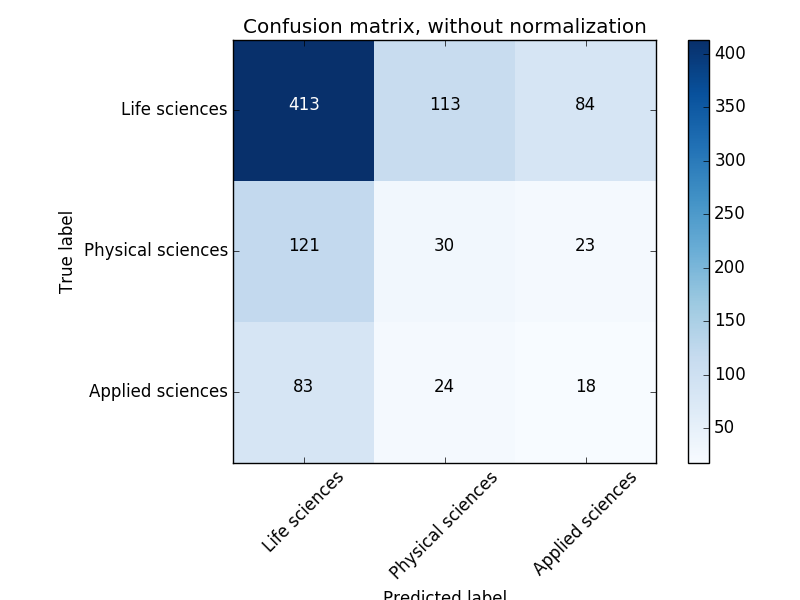
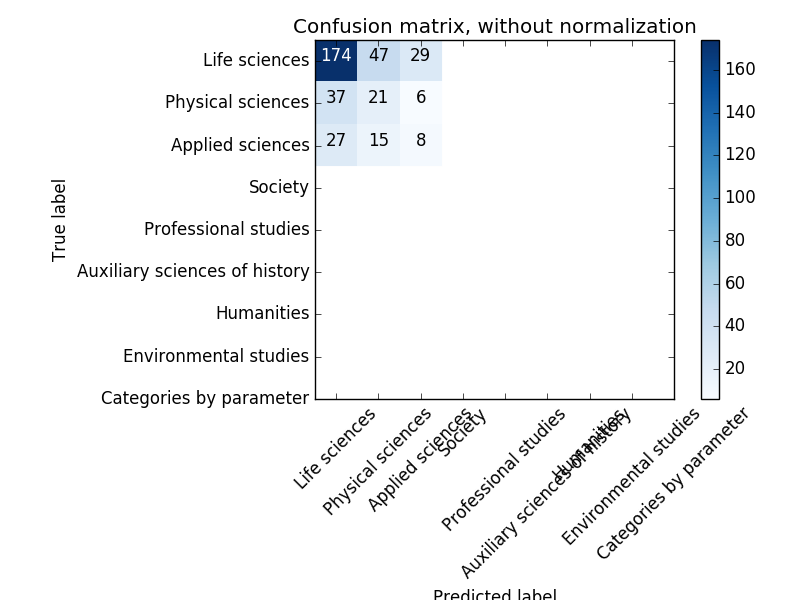
done

diff --git a/m3/training.py b/m3/training.py
@@ -22,8 +22,12 @@ import numpy as np
 
 import gensim
 from gensim.models.doc2vec import TaggedDocument, LabeledSentence, Doc2Vec
-
+from sklearn.metrics import confusion_matrix,roc_curve
 import matplotlib.pyplot as plt
+
+from sklearn.model_selection import cross_val_score
+
+
 
 def plot_confusion_matrix(cm, classes,
                           normalize=False,
@@ -131,30 +135,69 @@ tagged_document = df['tagged'].tolist()
 
 
 
+from numpy import array
+from numpy import argmax
+from sklearn.preprocessing import LabelEncoder
+from sklearn.preprocessing import OneHotEncoder
+# define example
+data = list(set(symbol_set_all))
+values = array(data)
 
+# integer encode
+
+label_encoder = LabelEncoder()
+label_encoder_model = label_encoder.fit(values)
+integer_encoded = label_encoder_model.transform(values)
+integer_encoded = integer_encoded.reshape(len(integer_encoded), 1)
+
+onehot_encoder = OneHotEncoder(sparse=True)
+onehot_encoder_model =onehot_encoder.fit(integer_encoded)
+
+
+
+def encode_transform(data):
+    values = array(data)
+    integer_encoded = label_encoder_model.transform(values)
+    integer_encoded = integer_encoded.reshape(len(integer_encoded), 1)
+    onehot_encoded = onehot_encoder_model.transform(integer_encoded)
+    return onehot_encoded
+
+# print encode_transform(['a'])[0]
+#
+# exit()
 # word 2 vec experiment
 
 from gensim.models import Word2Vec
 # build vocabulary and train model
 Word2Vec_model = gensim.models.Word2Vec(
     symbol_list,
-    size=300,
+    size=100,
     window=4,
-    min_count=0,
+    min_count=1,
     workers=4)
 Word2Vec_model.train(symbol_list, total_examples=len(symbol_list))
 
 
+def vectorize(s):
+    v = Word2Vec_model[s]
+    # v = encode_transform([s])[0]
+    return v
+
+
+# print vectorize('a')
+
+
 d = []
 
-class_names = ['Life sciences', 'Physical sciences', 'Applied sciences']
+# class_names = ['Life sciences', 'Physical sciences', 'Applied sciences']
+class_names = ['Life sciences', 'Physical sciences', 'Applied sciences', 'Society', 'Professional studies', 'Auxiliary sciences of history', 'Humanities', 'Environmental studies', 'Categories by parameter']
 
 for t in tagged_document:
     v = []
     for s in t['words']:
-        v.append(Word2Vec_model[s])
+        v.append(vectorize(s))
         np.array(v)
-    meanv_v =    np.mean(v, axis=0)
+    meanv_v = np.mean(v, axis=0)
     # print  meanv_v
     t['features'] = meanv_v
     if t['tags'][0] == class_names[0]:
@@ -163,10 +206,20 @@ for t in tagged_document:
         t['tag'] = 1
     if t['tags'][0] == class_names[2]:
         t['tag'] = 2
+    if t['tags'][0] == class_names[3]:
+        t['tag'] = 3
+    if t['tags'][0] == class_names[4]:
+        t['tag'] = 4
+    if t['tags'][0] == class_names[5]:
+        t['tag'] = 5
+    if t['tags'][0] == class_names[6]:
+        t['tag'] = 6
+    if t['tags'][0] == class_names[7]:
+        t['tag'] = 7
+    if t['tags'][0] == class_names[8]:
+        t['tag'] = 8
 
-    # ['Life sciences' 'Fields of mathematics' 'Physical sciences'
-    #  'Applied sciences' 'Subfields of physics']
-    # t['tag'] = t['tags'][0]
+
     d.append(t)
 
 
@@ -188,12 +241,11 @@ X=sparse.csr_matrix(X)
 Y = df['tag']
 
 from sklearn.model_selection import train_test_split
-# X_train, X_test, y_train, y_test = train_test_split(X,Y , test_size=0.5,  random_state=42,stratify=Y)
-X_train, X_test, y_train, y_test = train_test_split(X,Y , test_size=0.5,  random_state=42)
+# X_train, X_test, y_train, y_test = train_test_split(X,Y , test_size=0.2,  random_state=42,stratify=Y)
+X_train, X_test, y_train, y_test = train_test_split(X,Y , test_size=0.2,  random_state=42)
 #
 
 
-# exit()
 print 'RandomForestClassifier'
 from sklearn.ensemble import RandomForestClassifier
 # rf = RandomForestClassifier()
@@ -205,18 +257,20 @@ from scipy.stats import spearmanr, pearsonr
 # predicted_train = rf.predict(X_train)
 predicted_test = rf.predict(X_test)
 # f1_score = f1_score(y_test, predicted_test,average=None)
-# roc_auc_score_test = roc_auc_score(y_test, predicted_test, average=None, sample_weight=None)
+
+# roc_curve_score_test = roc_curve(y_test, predicted_test,pos_label=0)
+# print('roc_auc_score: ',roc_curve_score_test)
 
 # print('Out-of-bag R-2 score estimate: ' , rf.oob_score_ )
 # print('F1 Score: ', f1_score )
-# print('roc_auc_score: ',roc_auc_score_test)
 
 
 
-from sklearn.model_selection import cross_val_score
+
+
 # 10-Fold Cross validation
 print 'cross_val_score: ', np.mean(cross_val_score(rf, X_train, y_train, cv=10))
-from sklearn.metrics import confusion_matrix
+
 #
 # print 'confusion_matrix',confusion_matrix(y_test, predicted_test)
 #
@@ -250,7 +304,8 @@ print '-------------------------------------------------------------------'
 print 'DecisionTreeClassifier'
 from sklearn.tree import DecisionTreeClassifier
 # rf = RandomForestClassifier()
-dt = DecisionTreeClassifier( random_state=42)
+dt = DecisionTreeClassifier( random_state=42 ,criterion = 'gini')
+
 dt.fit(X_train, y_train)
 
 # predicted_train = dt.predict(X_train)
@@ -281,7 +336,7 @@ print '-------------------------------------------------------------------'
 
 print 'MLPClassifier'
 from sklearn.neural_network import MLPClassifier
-mlp = MLPClassifier(hidden_layer_sizes=(100,100,13),max_iter=500)
+mlp = MLPClassifier(hidden_layer_sizes=(100,100),max_iter=100)
 
 mlp.fit(X_train, y_train)
 #
@@ -355,7 +410,6 @@ plot_confusion_matrix(cnf_matrix, classes=class_names, normalize=True,
 plt.savefig('plot_confusion_matrix_normal_LinearSVC')
 
 
-exit()
 
 
 
@@ -378,57 +432,6 @@ exit()
 
 # print list(set(symbol_set_all))
 # exit()
-
-from numpy import array
-from numpy import argmax
-from sklearn.preprocessing import LabelEncoder
-from sklearn.preprocessing import OneHotEncoder
-# define example
-data = list(set(symbol_set_all))
-values = array(data)
-
-# integer encode
-
-label_encoder = LabelEncoder()
-label_encoder_model = label_encoder.fit(values)
-integer_encoded = label_encoder.transform(values)
-# print(integer_encoded)
-# binary encode
-onehot_encoder = OneHotEncoder(sparse=False)
-integer_encoded = integer_encoded.reshape(len(integer_encoded), 1)
-onehot_encoder_model =onehot_encoder.fit(integer_encoded)
-
-onehot_encoded = onehot_encoder_model.transform(integer_encoded)
-
-# print(onehot_encoded)
-# invert first example
-inverted = label_encoder.inverse_transform([argmax(onehot_encoded[0, :])])
-# print(inverted)
-
-
-def encode_transform(data):
-    values = array(data)
-    integer_encoded = label_encoder.transform(values)
-    integer_encoded = integer_encoded.reshape(len(integer_encoded), 1)
-    onehot_encoded = onehot_encoder_model.transform(integer_encoded)
-    return onehot_encoded
-
-# print encode_transform(['n'])
-
-# df_2 = pd.get_dummies(df,drop_first=True)
-
-# print(df_2)
-# exit()
-def encode_set(row):
-
-    symbols_ = list(set(row['symbol_set']))
-
-    return list(encode_transform(symbols_))
-
-df['features'] = df.apply(encode_set,axis=1)
-
-# print df['features'].tolist()[0]
-
 
 
 

diff --git a/m3/statistics.py b/m3/statistics.py
@@ -25,7 +25,7 @@ df_grouped = df.groupby(['subject']).size().reset_index(name='counts').sort_valu
 print(df_grouped.head())
 
 # exit()
-f  = df_grouped[df_grouped['counts']>100]['subject'].tolist()
+f  = df_grouped[df_grouped['counts']>10]['subject'].tolist()
 print(f)
 
 df = df.loc[df['subject'].isin(f)]
